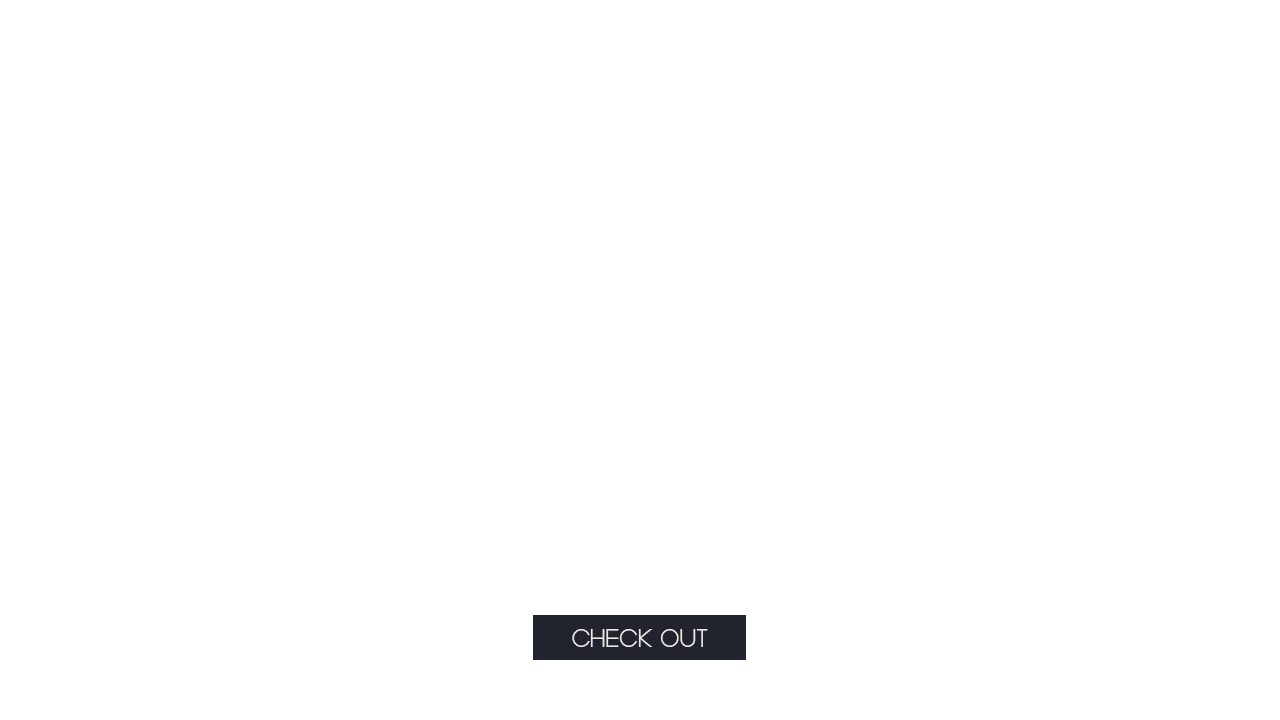
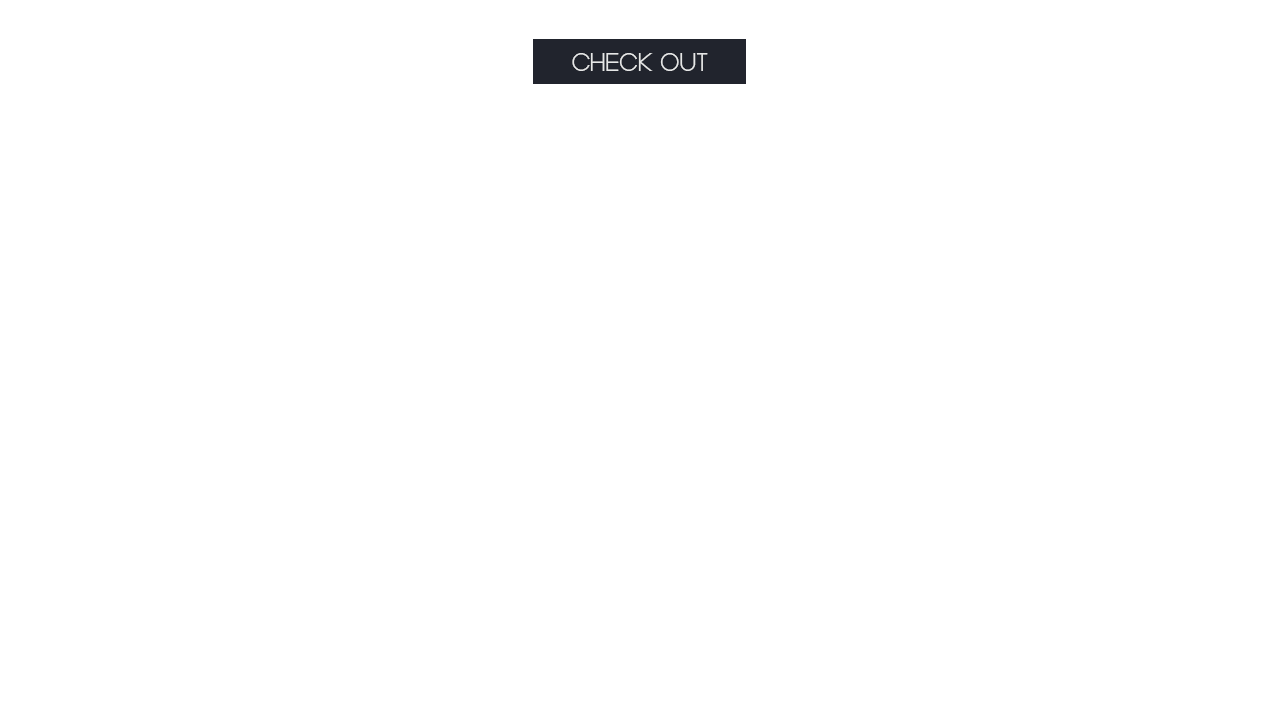
a

Changed region(s): [[0.4062, 0.0306, 0.5938, 0.1222], [0.4062, 0.8556, 0.5938, 0.9167]]

diff --git a/View.java b/View.java
@@ -123,6 +123,7 @@ public class View {
   Image back = new Image("images/backButton.png");
   Image back2 = new Image("images/backHover.png");
 
+  ImageView outLog = new ImageView(logout);
   ImageView clothing = new ImageView(clothingIcon);
   ImageView bag = new ImageView(bagIcon);
   ImageView shoes = new ImageView(ShoesIcon);
@@ -131,7 +132,6 @@ public class View {
   ImageView sports = new ImageView(sportsIcon);
   ImageView maleButton = new ImageView(male1);
   ImageView femaleButton = new ImageView(female1);
-  ImageView out = new ImageView(logout);
   ImageView account = new ImageView(accountButton);
   ImageView setClothing = new ImageView(clothingSet);
   ImageView setClothing2 = new ImageView(clothingSet);
@@ -550,6 +550,8 @@ public class View {
 
   private void viewAccountPage() {
 	  
+	
+	System.out.println("Account");
 	Text name_text = new Text(40, 50, "Name: ");
 	Text register_text = new Text(10, 50, "Register Date: ");
 	Text contact_text = new Text(10, 50, "Contact Number: ");
@@ -567,13 +569,13 @@ public class View {
     Label userDetails = new Label(getUserDetails);
 	userDetails.setFont(new Font("Madeleina Sans", 40));
 
-    accountPage.getChildren().add(userDetails);
+	//accountPage.getChildren().add(outLog);
+	accountPage.getChildren().add(userDetails);
 	accountPage.getChildren().add(name_text);
 	accountPage.getChildren().add(register_text);
 	accountPage.getChildren().add(contact_text);
 	accountPage.getChildren().add(sex_text);
-	accountPage.getChildren().add(out);
-	AnchorPane.setTopAnchor(out, 300.0);
+	//AnchorPane.setTopAnchor(out, 300.0);
 	AnchorPane.setTopAnchor(name_text, 147.0);
 	AnchorPane.setTopAnchor(register_text, 197.0);
 	AnchorPane.setTopAnchor(contact_text, 247.0);
@@ -825,6 +827,7 @@ public class View {
   private void viewMyCart() {
 
     TilePane grid = new TilePane();
+	AnchorPane cartPane = new AnchorPane();
 
     grid.setStyle("-fx-border-color: #E6E7E7");
     grid.setPrefColumns(3);
@@ -899,8 +902,19 @@ public class View {
 
       grid.getChildren().add(productpane[i]);
     }
+	checkOutV.setOnMouseEntered(e->{
+		checkOutV.setImage(checkout2);
+	});
+	checkOutV.setOnMouseExited(e->{
+		checkOutV.setImage(checkout);
+	});
+	
 
-    scrollpane.setContent(grid);
+	cartPane.getChildren().add(grid);
+	  if (controller.getCurrentCart().size() > 1)
+		  cartPane.getChildren().add(checkOutV);
+	AnchorPane.setLeftAnchor(checkOutV, 170.0);
+    scrollpane.setContent(cartPane);
     vertical.getChildren().add(scrollpane);
     VBox.setMargin(scrollpane, new Insets(0, 0, 0, 320));
   }
